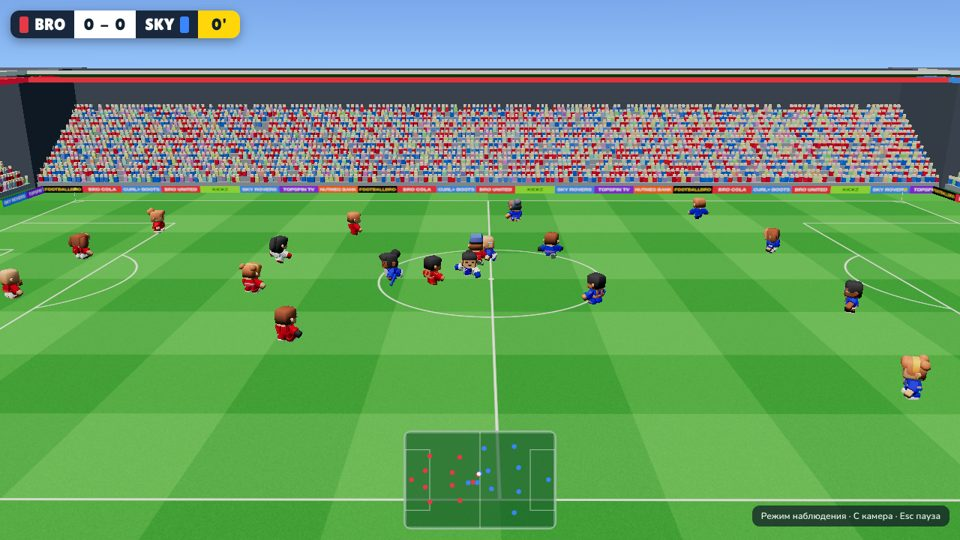
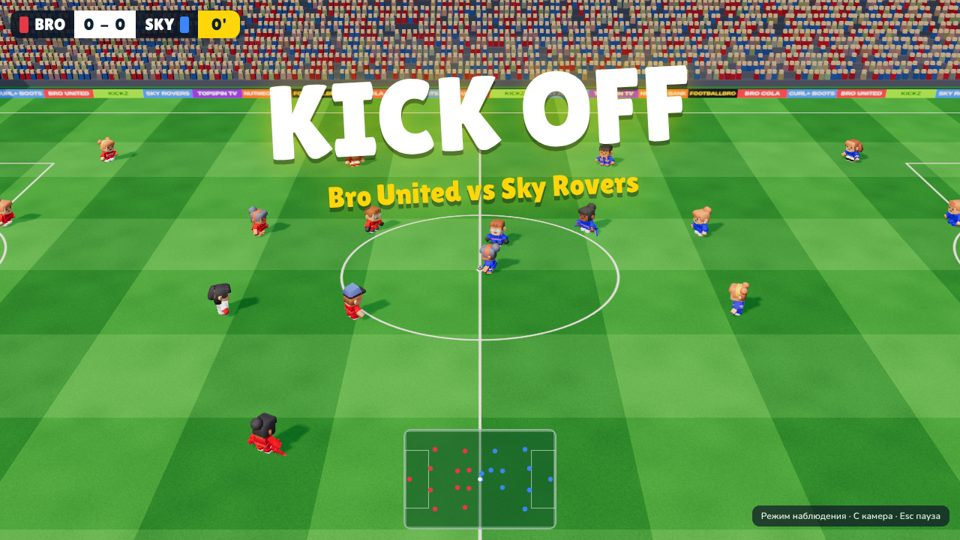
Docs for FIFA-style controls and settings; refreshed screenshots
Claude-Session: https://claude.ai/code/session_01LHLkDnohttwomcwW31FrBZ

diff --git a/CLAUDE.md b/CLAUDE.md
@@ -7,7 +7,7 @@ The user writes in Russian — answer in Russian. UI strings are Russian.
 
 ## Commands
 - `npm run dev` — dev server (http://localhost:5173). Debug query params:
-  `?watch` AI vs AI · `?autostart` skip menu · `&size=5|7|11` · `&half=<sec>` · `&speed=<x>` sim speed · `&lq` low quality (no shadows; use in headless Chromium)
+  `?watch` AI vs AI · `?autostart` skip menu · `&size=5|7|11` · `&half=<sec>` · `&speed=<x>` sim speed · `&q=high|medium|low` graphics (`&lq` = low; headless Chromium/swiftshader is ~2 fps, use low + speed)
 - `npm test` — vitest (ball physics + solvers in `tests/ball.test.ts`, human controls + full match in `tests/human.test.ts`)
 - `npm run sim -- [matches] [size] [halfSec] [seed]` — **headless AI-vs-AI match runner** (`scripts/simulate.ts`): goals, shots, pass completion, ball-x histogram, stalls, NaN. Run it after any change in `src/sim/`. Healthy (11v11, 120 s halves): ~1–3 goals, ~10 shots, pass completion ≥55%, 0 stalls, 0 NaN.
 - `npm run shots` — Playwright screenshots (`scripts/screenshot.ts`, needs dev server running; Chromium at `/opt/pw-browsers/chromium-1194/chrome-linux/chrome`, swiftshader is slow ≈2 fps → use `&lq`, `&speed`).
@@ -28,19 +28,22 @@ src/sim/            — deterministic simulation, no DOM/WebGL (runs in node)
   match.ts          — Match: state machine (kickoff/play/goal/setpiece/halftime/fulltime), possession & dribble, loose-ball control/deflection,
                       orderKick→fireKick, tackles/slides/fouls, GK dive & catch, rules (goal, throw-in, corner, goal kick, free kick, penalty), events[]
   ai.ts             — formationTarget, pass evaluation (laneSafety, passOptions), shotAim (+finesse curl sign), team roles (chaser/cover), carrier decisions, set-piece takers, gkThink/gkDistribute
-  human.ts          — human input → controlled player (stick: right=+x, up=-z because camera looks toward -z); shot charge; auto-switch
+  human.ts          — FIFA-style context controls (stick: right=+x, up=-z because camera looks toward -z): hold-to-charge pass/through/lob/shot/finesse/chip,
+                      skill feint; defence: pass=jockey, shoot=tackle, lob=slide, through=teammate press; switch candidate; auto-switch
   rng.ts            — seeded PRNG
 src/render/         — three.js
-  game.ts           — GameRenderer: scene, lights, shadows, owns all views; draw(FrameView) used for live AND replay
+  game.ts           — GameRenderer: scene, RoomEnvironment IBL, sun+shadows, EffectComposer (MSAA, bloom on high), quality levels; draw(FrameView) for live AND replay
   view.ts           — FrameView/PlayerView snapshots (captureFrame) + ReplayBuffer
   players.ts        — loads Kenney GLBs, runtime kit recolouring (finds shirt/shorts/socks palette swatches via skin joints), PlayerActor anim mapping
-  net.ts            — GoalNet Verlet cloth (roof+back strip + 2 side panels), ball pushes particles; LineSegments
+  net.ts            — GoalNet Verlet cloth (roof+back strip + 2 side panels), slack 5%, breeze, ball pushes particles; textured diamond-mesh Mesh (alphaTest, casts shadow)
   ball.ts           — procedural truncated-icosahedron ball texture, spin rotation, blob shadow, additive trail ribbon
   stadium.ts        — canvas pitch texture (stripes+lines), goals frame, ad boards, corner flags, stands, instanced crowd (shader bounce, hype), floodlights, sky
-  camera.ts         — CameraRig: broadcast presets (C to cycle), replay angles (behind goal / beside post)
+  camera.ts         — CameraRig: TV gantry presets tv/tvclose/high/pro (V cycles, settings.camera), replay angles (behind goal / beside post)
   effects.ts        — pooled particles (grass puffs, confetti)
-src/ui/             — menu.ts (team/format/length/difficulty, localStorage), hud.ts (scoreboard, banners, toasts, power bar, radar, pause/full-time panels), style.css
-src/input/input.ts  — keyboard + gamepad → InputState
+src/settings.ts     — persisted options: quality, camera preset, volume, key bindings (ACTIONS, PRESETS fifa/wasd, keyLabel)
+src/ui/             — menu.ts (team/format/length/difficulty), settingsPanel.ts (rebinding, camera, quality, volume),
+                      hud.ts (scoreboard, banners, toasts, player tag = name+stamina+power bar, radar, pause/full-time), style.css
+src/input/input.ts  — keyboard (via settings.bindings) + gamepad → InputState; captureHook for rebinding
 src/audio/sound.ts  — WebAudio synthesized sfx (kick, bounce, post, net, whistle, crowd bed/reactions); no audio files
 src/main.ts         — boot (asset loading), Session (fixed-step loop, events→audio/HUD/fx, replay director, pause/full time)
 public/assets/characters/ — Kenney Mini Characters GLBs (CC0) + Textures/colormap.png
@@ -49,10 +52,11 @@ public/assets/characters/ — Kenney Mini Characters GLBs (CC0) + Textures/color
 ## Key conventions / gotchas
 - Field: goals at x = ±length/2; team.attackDir ±1 flips at half time. Screen right = +x.
 - Kenney clip names used: idle, walk, sprint, jump, sit (slide), die (fallen), attack-kick-right (kick), attack-kick-left (tackle), holding-both(-shoot), emote-yes.
-- Visual ball is 1.3× physical radius (BALL_VIS_SCALE) — keep net cloth collision radius in sync.
+- Proportions: 11v11 pitch 105×68, players ~1.45 m (modelScale 2.65), visual ball 1.6× physical (BALL_VIS_SCALE; net cloth uses it).
+- UI hotkeys outside bindings: V camera, M mute, Esc/P pause — keep them out of the presets.
 - Sim never imports render code. Render reads `Match` only via `captureFrame`.
 - Events (`match.events`) are consumed & cleared by main.ts each step (and by the sim runner).
 - Commit messages: no model ids. Develop on the branch given by the session.
 
 ## Possible next steps (ideas)
-Headers/volleys, player stamina, cards, offside (user said not needed yet), better GK animations, commentary text, mobile touch controls, more stadium dressing.
+User wants FIFA-like gameplay with cartoon characters. Ideas: cards, offside (user said not needed yet), more skill moves, better GK animations, commentary text, mobile touch controls, nicer crowd.

diff --git a/README.md b/README.md
@@ -18,21 +18,24 @@ npm run dev      # открыть http://localhost:5173
 
 ## Управление
 
+Раскладку можно поменять в **Настройках** (две готовые: «Как в FIFA» и «WASD + JKL», плюс переназначение любой клавиши).
+По умолчанию — как в FIFA на клавиатуре:
+
 | Клавиша | С мячом | Без мяча |
 |---|---|---|
-| WASD / стрелки | бег | бег |
-| Shift | спринт | спринт |
-| K | пас | прессинг + отбор (держать) |
-| L | пас на ход | — |
-| O | навес / заброс | — |
-| J | удар (держать — сильнее) | подкат |
-| I | **крученый удар (finesse)** | — |
-| Space / Q | — | смена игрока |
-| C / M / Esc | камера / звук / пауза | |
+| Стрелки | бег | бег |
+| E | спринт (тратит выносливость) | спринт |
+| S | пас (держать — дальше и сильнее) | сдерживание (держать) |
+| W | пас на ход | прессинг партнёром (держать) |
+| A | навес / заброс | подкат |
+| D | удар (держать — сильнее) | отбор |
+| Shift | **крученый удар (finesse)** | — |
+| Z | удар парашютом | — |
+| C | финт | — |
+| Q | — | смена игрока |
+| V / M / Esc | камера / звук / пауза | |
 
-Геймпад: левый стик, A — пас, B — удар, RB+B — крученый, X — на ход, Y — навес, LB — смена, RT — спринт.
-
-Направление удара: стик вверх/вниз выбирает угол ворот (иначе — дальний от вратаря). Крученый удар сам закручивается в ворота от штанги.
+Геймпад: левый стик, A — пас, B — удар, RB — крученый, LT — парашют, X — на ход, Y — навес, LB — смена, RT — спринт, R3 — финт.
 
 ## Режимы
 - Формат 5×5, 7×7, 11×11 (размер поля подстраивается)
